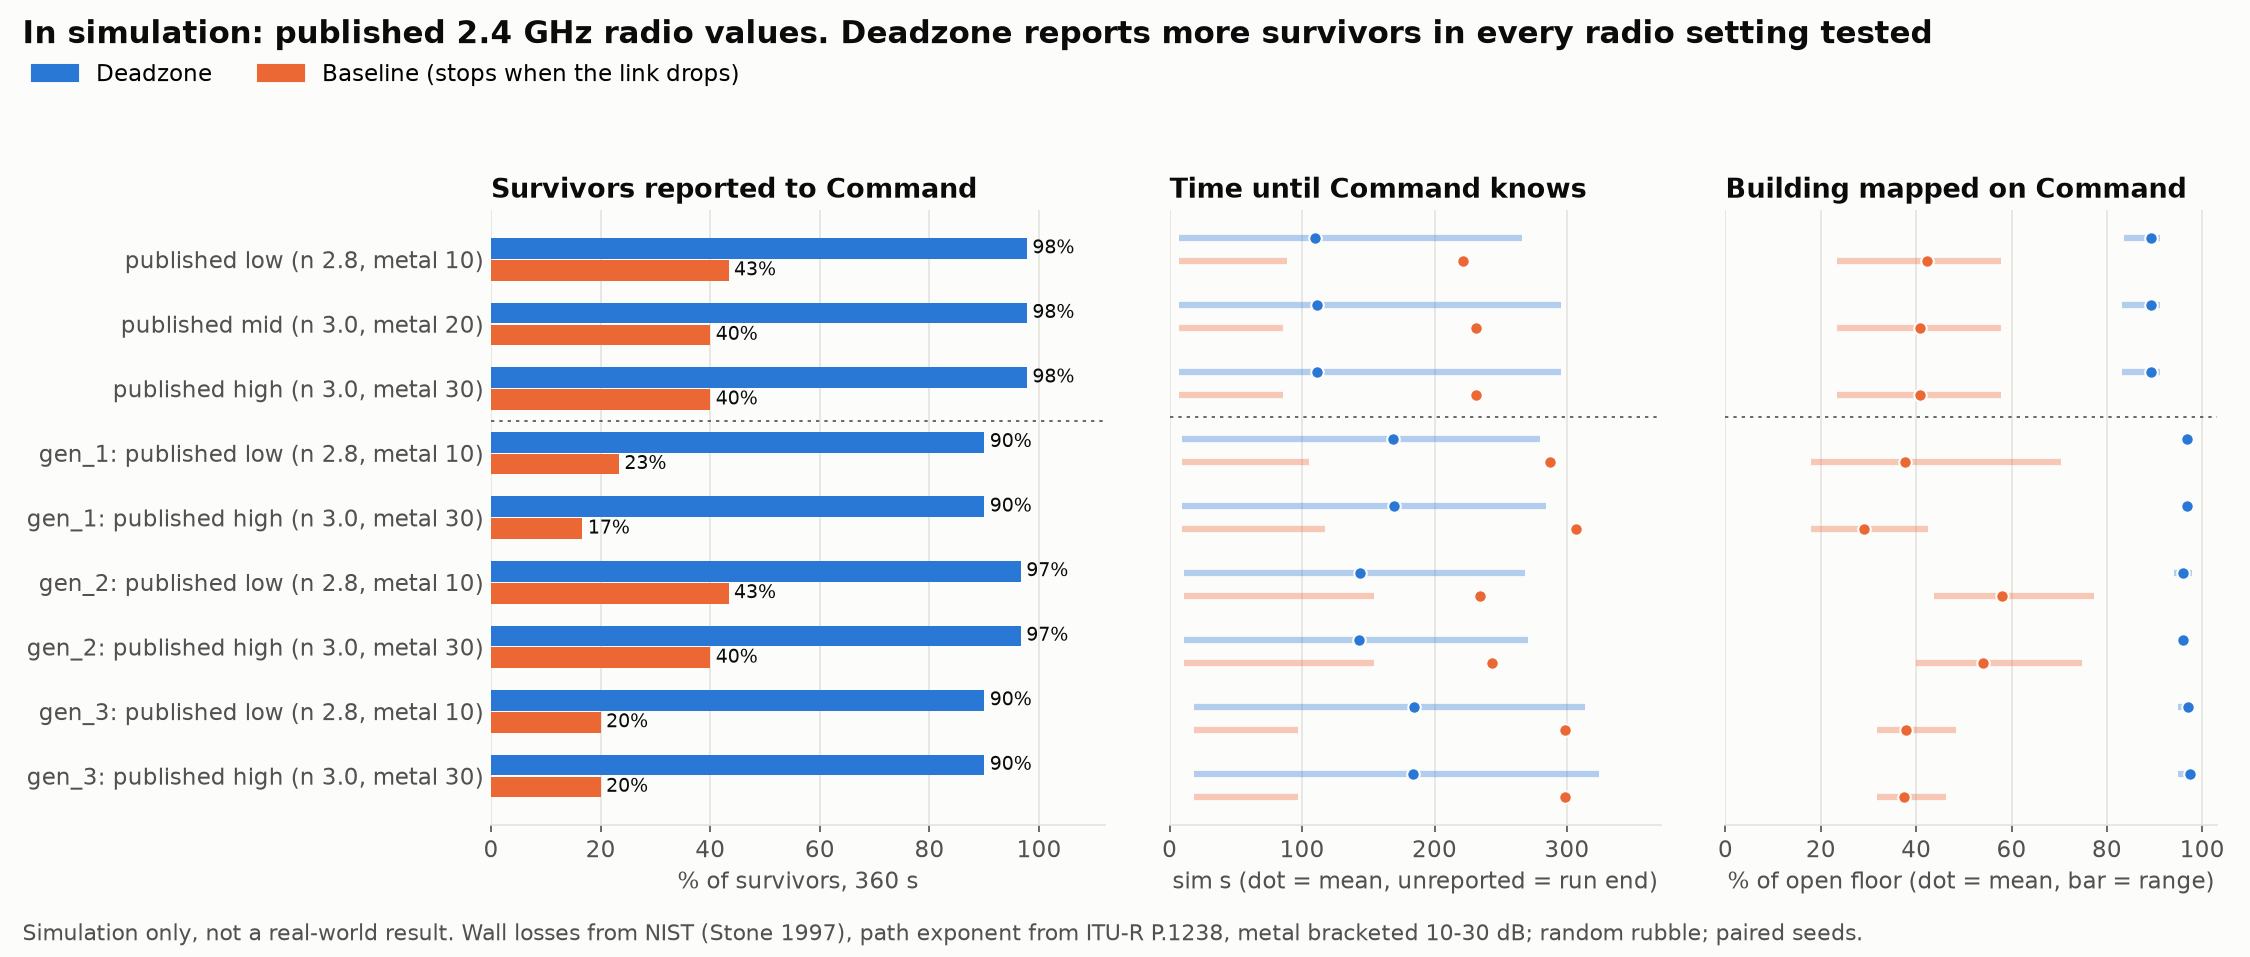
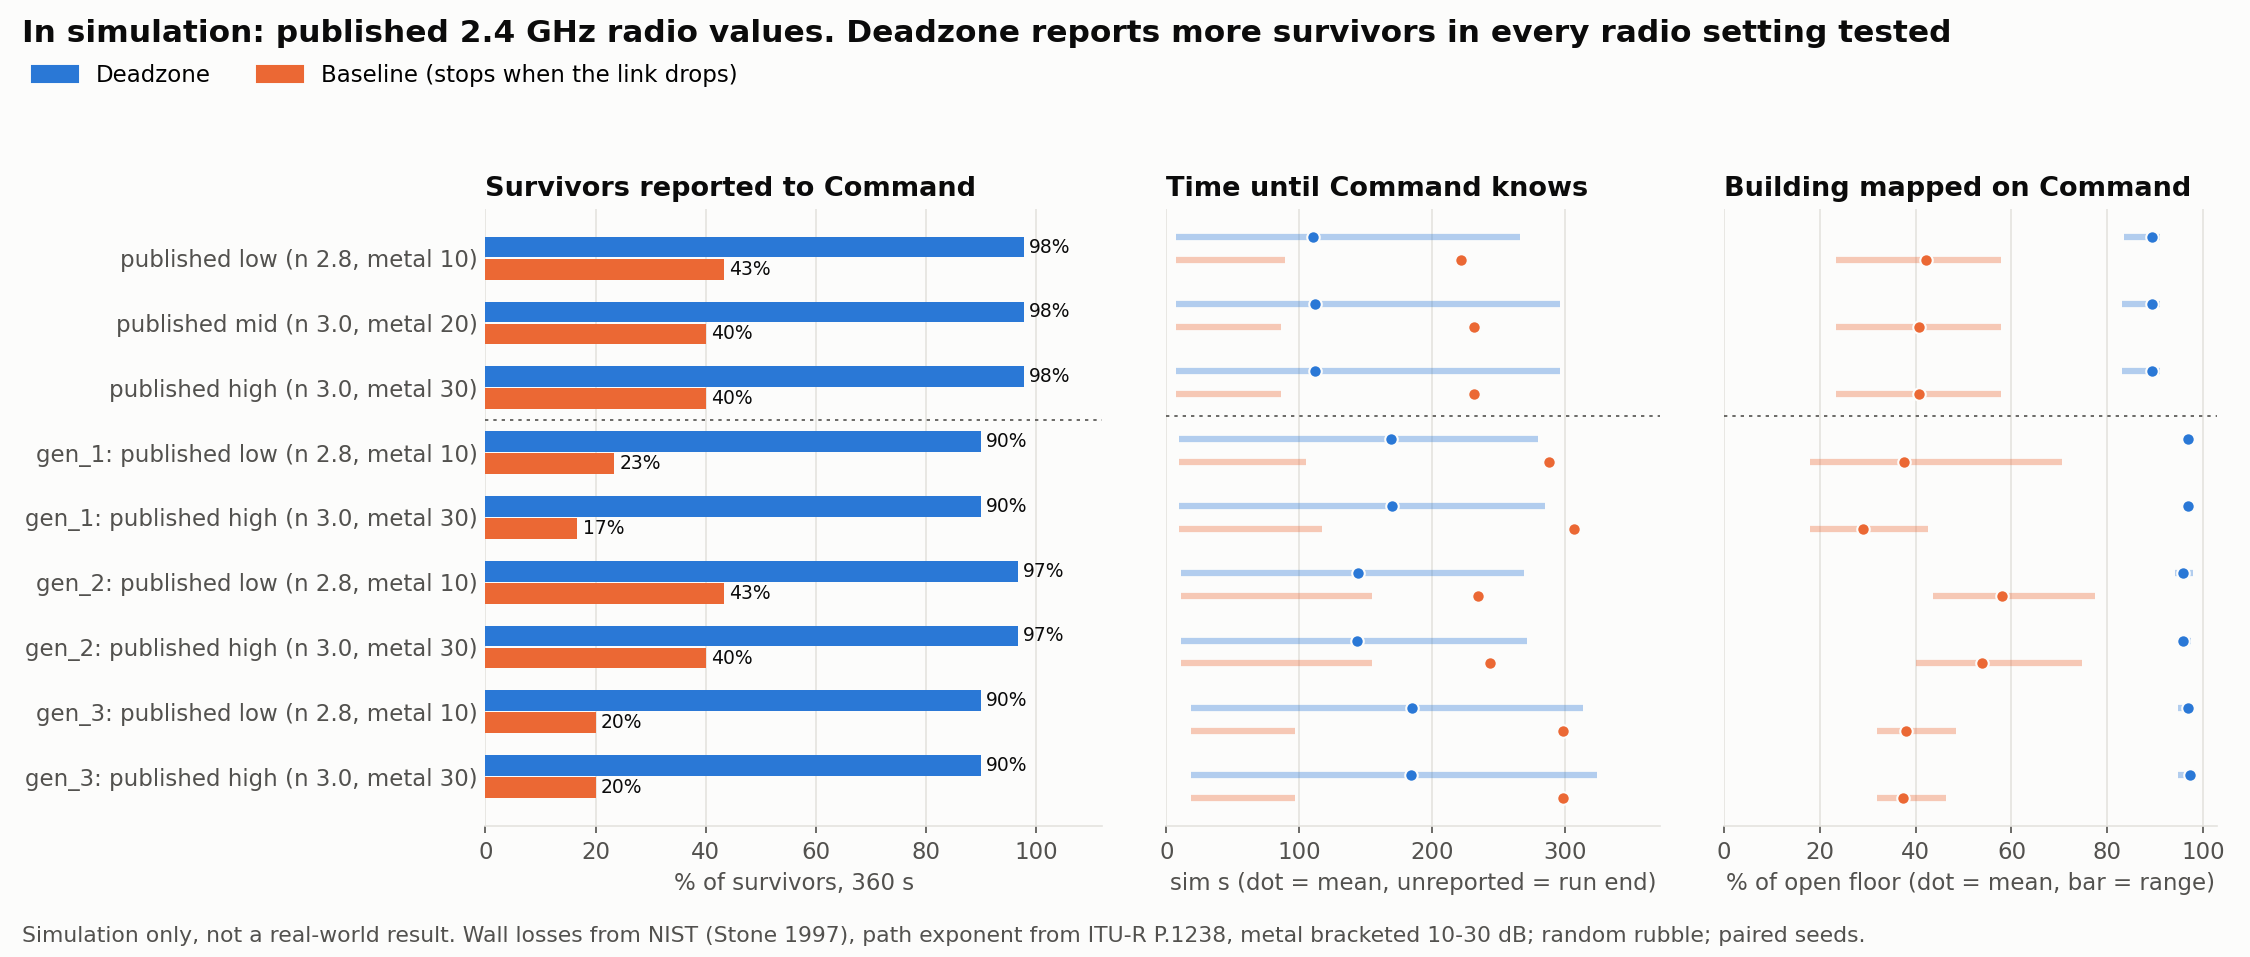
Slide assets regenerated from current results (training curve, calibration, stats card, benchmark v2 and published charts); new gradcam_strip.png of the six demo crops; make_slide_assets.py gains calibration, benchmark and gradcam sections; FACTS lists every image

diff --git a/ml/make_slide_assets.py b/ml/make_slide_assets.py
@@ -12,6 +12,12 @@
 - stats_card.png       : numbers from ml/results/metrics.json                            [stats]
 - training_curve.png   : loss and accuracy per epoch from ml/results/train_history.json
                          (written by ml/train.py --history); skipped while the curve is empty [curve]
+- calibration.png      : reliability diagram replotted from ml/results/calibration.json
+                         (ml/calibration.py scores the sets)                                  [calibration]
+- benchmark_v2.png, benchmark_published.png : replotted from their saved JSON
+                         (ml/benchmark_v2.py --replot, ml/benchmark_published.py --replot)     [benchmark]
+- gradcam_strip.png    : the six demo crops (S1-S3, D1-D3) with their Grad-CAM, verdict and score
+                         from ml/crops/runtime/manifest.json (ml/gradcam.py)                   [gradcam]
 """
 import argparse
 import json
@@ -27,7 +33,7 @@ import matplotlib.pyplot as plt  # noqa: E402
 from matplotlib.patches import FancyArrowPatch, FancyBboxPatch  # noqa: E402
 from PIL import Image  # noqa: E402
 
-SECTIONS = ("confusion", "crops", "stats", "curve")
+SECTIONS = ("confusion", "crops", "stats", "curve", "calibration", "benchmark", "gradcam")
 parser = argparse.ArgumentParser(description=__doc__, formatter_class=argparse.RawDescriptionHelpFormatter)
 parser.add_argument("repo", nargs="?", help="repo root (default: this file's parent's parent)")
 parser.add_argument("--only", nargs="+", choices=SECTIONS, default=list(SECTIONS), metavar="SECTION",
@@ -292,7 +298,66 @@ def training_curve():
     plt.close(fig)
 
 
-BUILD = {"confusion": confusion, "crops": crops_and_pipeline, "stats": stats_card, "curve": training_curve}
+# ---------------------------------------------------------------- calibration (replot from JSON)
+def calibration():
+    import calibration as cal
+    path = ML / "results" / "calibration.json"
+    if not path.exists():
+        print("calibration.png skipped: run py ml/calibration.py first")
+        return
+    cal.chart(json.loads(path.read_text(encoding="utf-8")), OUT / "calibration.png")
+
+
+# ---------------------------------------------------------------- benchmark charts (replot from JSON)
+def benchmarks():
+    import subprocess
+    for script, data in (("benchmark_v2.py", "benchmark_v2.json"), ("benchmark_published.py", "benchmark_published.json")):
+        if not (OUT / data).exists():
+            print(f"{data} missing: run py ml/{script} first")
+            continue
+        subprocess.run([sys.executable, str(ML / script), "--replot", "--out", str(OUT)], check=True)
+
+
+# ---------------------------------------------------------------- Grad-CAM strip of the six demo crops
+def gradcam_strip():
+    """Top row: the real thermal crop the robot judges; bottom row: the same crop with the model's
+    Grad-CAM (where it looked). One column per demo survivor and decoy, verdict and score as the
+    model gives them."""
+    runtime = ML / "crops" / "runtime"
+    m = json.loads((runtime / "manifest.json").read_text(encoding="utf-8"))
+    crops = [c for c in m["crops"] if c.get("id")]
+    crops.sort(key=lambda c: (c["id"][0] != "S", c["id"]))
+    fig, axes = plt.subplots(2, len(crops), figsize=(2.2 * len(crops), 5.4), facecolor=BG)
+    for col, c in enumerate(crops):
+        person = c["label"] == "person"
+        top, bottom = axes[0][col], axes[1][col]
+        top.imshow(Image.open(runtime / c["file"]).convert("L"), cmap="inferno")
+        bottom.imshow(Image.open(runtime / c["heatmap"]).convert("RGB"))
+        verdict = "person" if c["predicted"] == "person" else "not a person"
+        top.set_title(f"{c['id']}  {verdict}  {c['conf'] * 100:.1f}%" if not person else f"{c['id']}  {verdict}  {c['conf'] * 100:.0f}%",
+                      color=GREEN if c["predicted"] == "person" else RED, fontsize=10.5, fontweight="bold")
+        shows = c.get("shows") or c.get("object") or ""
+        if shows:
+            import textwrap
+            bottom.set_xlabel("
+".join(textwrap.wrap(str(shows), 26)[:2]), color=MUTED, fontsize=8.5)
+    for ax in axes.flat:
+        ax.set_xticks([])
+        ax.set_yticks([])
+        for sp in ax.spines.values():
+            sp.set_color(GRID)
+    fig.text(0.012, 0.72, "thermal crop", color=FG, rotation=90, fontsize=11, va="center")
+    fig.text(0.012, 0.30, "where the AI looked", color=FG, rotation=90, fontsize=11, va="center")
+    fig.suptitle("The six demo hot spots as the onboard model sees them", color=FG, fontsize=13, x=0.02, ha="left")
+    fig.text(0.02, 0.012, "Real thermal camera images, Teledyne FLIR dataset (held out)  ·  Grad-CAM on the person class  ·  "
+             f"threshold {m.get('threshold', 0.6)}", color=MUTED, fontsize=9, ha="left")
+    fig.subplots_adjust(left=0.05, right=0.99, top=0.88, bottom=0.13, wspace=0.08, hspace=0.22)
+    fig.savefig(OUT / "gradcam_strip.png", dpi=150, facecolor=BG)
+    plt.close(fig)
+
+
+BUILD = {"confusion": confusion, "crops": crops_and_pipeline, "stats": stats_card, "curve": training_curve,
+         "calibration": calibration, "benchmark": benchmarks, "gradcam": gradcam_strip}
 for name in SECTIONS:
     if name in args.only:
         BUILD[name]()

diff --git a/docs/team/history/rayan.md b/docs/team/history/rayan.md
@@ -3,13 +3,19 @@
 Owns `server/deadzone/robot/`, `ml/`, `data/floorplans/`. Only Rayan's sessions edit this file.
 
 ## Now
-- **Working on:** Rayan's bug-and-polish batch, one PR each: (1) robots never drive through each other (contract posted 13:10; **measured and parked on `rayan/peer-avoid`, Rayan decides**, 13:45 entry), (2) shutdown on DONE (13:45 entry, done), (4) camera hits in telemetry (14:10 entry, done), the no-go freeze fix from rayan-ml's diagnosis (14:30 entry, done), (3) physical shelves via a floor plan `obstacles` list (with Yusuf's footprints and Aziz's rasterization), (4) camera hits inside telemetry for the phone (contract posted); the **belief map Phase 1** (display only; contract 15:00, code 15:40, done; Aziz wires `maps.belief` / `maps.belief_command` / `maps.missing`, Yusuf draws) and **Phase 2** (`DZ_SEARCH_BAYES=1`, 16:20 entry, done, off by default: with the building prior the last survivor is found at 157 s instead of 246 s on seed 7, the dark moment moves 28 s). **Item 3:** furniture radio loss fixed (17:40 entry, 1 dB per piece, cross-area edit authorized by Rayan); with obstacles on the story holds except the reroute beat (table in 17:40), `DZ_OBSTACLES` stays off until Rayan decides. **PR B done (18:10 entry).** Now Rayan's three docs PRs: FACTS.md (18:40, done), README sections (19:00, done), slide assets (next). Item 1 parked by Rayan. Earlier: **queue done.** Items 7 and 8 (11:20 entry: `showcase_01`, default plans, key-N variants v1..v5, no collapse_01 dependency), the counters (11:50 entry: `Robot.counters`, Aziz sums them into `tick.stats`) and "unsure, moving closer" (12:20 entry) are on main. Done earlier from the PLAN.md midnight list: detector and scheduler counters for Aziz's `tick.stats` (key I), validated key-N variants of collapse_01 in `data/floorplans/variants/`, and "unsure, moving closer"; then hold. **Moved to the testing laptop (`rayan-ml.md`):** the judge pool and the benchmark refinement. Done earlier this round: A1 fix (V2 path shortcuts use the survivor-aware mask, this entry) + DEMO.md flag lines, training-curve slide asset, post-merge review of Aziz's #77 / #82 (verdict: default path and `DZ_SENSOR_VIEW` safe; `DZ_EXPLORATION_V2` must stay off for the demo), Yusuf's asset pack (`assets-pack/`, outside web/). **Later, only when Rayan asks:** visibility-checked `fit_route` thinning for routes over 60 points (Aziz's handoff patch, generated buildings only). **Later, low priority (Rayan said not now):** speed up my robot planner (vectorize the frontier search) so the sim reaches 10x during exploration.
+- **Working on:** Rayan's bug-and-polish batch, one PR each: (1) robots never drive through each other (contract posted 13:10; **measured and parked on `rayan/peer-avoid`, Rayan decides**, 13:45 entry), (2) shutdown on DONE (13:45 entry, done), (4) camera hits in telemetry (14:10 entry, done), the no-go freeze fix from rayan-ml's diagnosis (14:30 entry, done), (3) physical shelves via a floor plan `obstacles` list (with Yusuf's footprints and Aziz's rasterization), (4) camera hits inside telemetry for the phone (contract posted); the **belief map Phase 1** (display only; contract 15:00, code 15:40, done; Aziz wires `maps.belief` / `maps.belief_command` / `maps.missing`, Yusuf draws) and **Phase 2** (`DZ_SEARCH_BAYES=1`, 16:20 entry, done, off by default: with the building prior the last survivor is found at 157 s instead of 246 s on seed 7, the dark moment moves 28 s). **Item 3:** furniture radio loss fixed (17:40 entry, 1 dB per piece, cross-area edit authorized by Rayan); with obstacles on the story holds except the reroute beat (table in 17:40), `DZ_OBSTACLES` stays off until Rayan decides. **PR B done (18:10 entry).** Rayan's three docs PRs are done: FACTS.md (18:40), README sections (19:00), slide assets (19:20). **Holding.** Item 1 parked by Rayan. Earlier: **queue done.** Items 7 and 8 (11:20 entry: `showcase_01`, default plans, key-N variants v1..v5, no collapse_01 dependency), the counters (11:50 entry: `Robot.counters`, Aziz sums them into `tick.stats`) and "unsure, moving closer" (12:20 entry) are on main. Done earlier from the PLAN.md midnight list: detector and scheduler counters for Aziz's `tick.stats` (key I), validated key-N variants of collapse_01 in `data/floorplans/variants/`, and "unsure, moving closer"; then hold. **Moved to the testing laptop (`rayan-ml.md`):** the judge pool and the benchmark refinement. Done earlier this round: A1 fix (V2 path shortcuts use the survivor-aware mask, this entry) + DEMO.md flag lines, training-curve slide asset, post-merge review of Aziz's #77 / #82 (verdict: default path and `DZ_SENSOR_VIEW` safe; `DZ_EXPLORATION_V2` must stay off for the demo), Yusuf's asset pack (`assets-pack/`, outside web/). **Later, only when Rayan asks:** visibility-checked `fit_route` thinning for routes over 60 points (Aziz's handoff patch, generated buildings only). **Later, low priority (Rayan said not now):** speed up my robot planner (vectorize the frontier search) so the sim reaches 10x during exploration.
 - **Works on main:** frontier exploration, 3-robot target sharing, relay auto-drop, A* return home, lost-link + 10 s reconnect hold, REPLANNING around rubble, rate monotonic scheduler with carry-over and deadline misses, full fault FSM (OVERCURRENT, STUCK, SAFE_STOP, LOW_BATTERY, TRAPPED), SAFE_STOP resume command (PR #13), robots follow dispatched plans (PR #15), robots perceive through the trained detector with decoys in the floor plan (PR #14 + #17). Seed 7, 3 robots: S1 found dark at 182.3 s, on Command at 187.3 s, 4 relays.
 - **In flight (not merged):** none. On main: asset pack (`assets-pack/`, this entry), DEMO.md dry-run fixes + short-briefing asks (PR #79), logged retrain promoted on a tie (PR #71), review v2 + DEMO.md fixes (PR #75), DEMO.md update (PR #74), scenario generator (PR #73), AI Lab export (PR #68), team-sync rule in INSTRUCTIONS.md (PR #67), voice commands + command_ack (PR #64, contract PR #63), rescue route recompute after aftershocks (PR #62), PLAN.md voice control + https tunnel + one controller per robot (PR #61), PLAN.md realistic visuals + AI showcase (PR #57), soak test + PR #28 review (PR #53), benchmark labeled "in simulation" (PR #48), Grad-CAM heatmaps + crop manifest (PR #49), baseline mode + benchmark (PR #41), no attribution setting (PR #43), demo guard (PR #36), Version 2 plan (PR #34), pitch assets (PR #33), demo polish (PR #29), beacon_for tag (PR #32), rescue route + beacon (PR #25), `docs/DEMO.md`, detector hookup + decoys (PR #17).
 - **Blocked on / need from others:** **Aziz:** one piece left for the showcase and the variants (11:20 entry): quiet preload of a building's `default_plan` file on reset-into-floorplan (manual `POST /api/plan` with `data/plans/<...>.plan.json` works meanwhile). The reset control, `/api/scenarios` and the timeline player from your #90 cover the rest. **Counters:** `robot.counters` has your names; your test expects robots to supply none via telemetry by default, so pick: read the attribute in `Sim.snapshot()`, or I add the telemetry field alongside your test change (11:50 entry). **The judge pool export you asked for is with the testing laptop (`rayan-ml.md`), not this session.** **Aziz: A1 is done on main (10:20 entry). A2 (an `explore_zone` under V2 never sends `completed` when no viewpoint is reachable) is your call, suggestions in the 10:00 entry; keep `DZ_EXPLORATION_V2` off for the demo.** **Yusuf: the asset pack is in `assets-pack/`** (asset-pack entry); say in your file if you want other sets, plain JPG/PNG, or a different person pose, and I'll regenerate. Still open for Yusuf: speak only the short G briefing (PR #79 entry). **Aziz:** the ~3-sentence G briefing or a `short` field (PR #79 entry); A2, leases block B / U from the big screen (keep `DZ_VOICE` / `DZ_CONTROL_LEASES` off for the main run until fixed); the generated-building loader + timeline player (scenario-gen entry) only if you want it for Q&A; quiet P-1 preload (demo-polish entry) if not done. **Rayan (testing laptop):** keyed ElevenLabs dry run (the keyed G dry run passed with `source: "gemini"`). Done by Yusuf: route replacement (Y3), B chip + state labels, `curve_note` (PR #80). Done by Aziz: `/crops`, `hello.detector`, `command.routes` (PR #28), baseline control (PR #54), `/api/voice` + `command_ack` wiring (PR #72). Details in the Blocked sections below; owners/targets in `docs/PLAN.md` Added scope. Keep `PEER_FRESH_S` in robot.py (sim.py imports it).
 - **Promises to others:** states final: DEPLOYING, EXPLORING, LOST_LINK_EXPLORING, RETURNING_TO_SIGNAL, RETURNING_HOME, REPLANNING, FAULT, DONE, plus WAITING_FOR_LINK (baseline mode only). Robot `mode`: deadzone (default) or baseline, `Robot.set_mode()`. Faults final: null, OVERCURRENT, STUCK, LOW_BATTERY, TRAPPED, SAFE_STOP. `tasks` slices as in PR #7, `missed` can now be true. Robot hooks: `inject_overcurrent(seconds=1.0)`, `inject_perception_overload(seconds=3.0, wcet_ms=400)`.
 
 ## Log
+
+### 2026-11-08 19:20 · rayan/slide-assets · Slide assets regenerated from current results; Grad-CAM strip of the six demo crops
+- **Did:** `ml/make_slide_assets.py` gains three sections: `calibration` (replots `ml/results/calibration.json` through `ml/calibration.py`'s chart, no re-scoring), `benchmark` (runs `benchmark_v2.py --replot` and `benchmark_published.py --replot`), and `gradcam` (**new `docs/assets/gradcam_strip.png`**: S1–S3 and D1–D3, thermal crop above, Grad-CAM below, verdict and score from `ml/crops/runtime/manifest.json`). Regenerated from current results: `training_curve.png` (the fine-tuned run: 5 epochs, 13,266 crops), `calibration.png`, `stats_card.png` (96.7 / 97.3 / 96.0), `benchmark_v2.png`, `benchmark_published.png`; `confusion_matrix.png` unchanged. `crops_grid.png` / `pipeline.png` need the SDT frames (testing laptop) and were left as they are. FACTS.md lists every image with its section and source data.
+- **Contract changes:** none.
+- **Heads-up for others:** **rayan-ml:** `py ml/make_slide_assets.py --only crops` on your side if the examples grid should match the new runtime crops. **Yusuf:** `gradcam_strip.png` is also served at `/ai-lab/slides/gradcam_strip.png` with `DZ_AI_LAB=1` if you want it in L.
+- **Next:** hold.
 
 ### 2026-11-08 19:00 · rayan/readme-sections · README: "AI tools" and "Resources and licenses"
 - **Did:** README gains **AI tools** (Claude Code and OpenAI Codex used for code, disclosed per MLH rules; design and decisions ours; the detector is our own model; Gemini only briefs) and **Resources and licenses** (FLIR ADAS v2 under Teledyne's terms, SDT CC BY 4.0, Rappaport, NIST Stone 1997, ITU-R P.1238, Liu & Layland, the CC0 asset pack, and every pip and npm dependency with its license in one line each), in the README's own voice; the old "Data and resources" section is folded in. FACTS.md: the model row now says 4.8 ms per crop (from `lab.json`), not "about 7".

diff --git a/docs/FACTS.md b/docs/FACTS.md
@@ -60,4 +60,16 @@ Every number we say on stage, with the file in this repo it comes from. If it ca
 
 ## Slide assets
 
-`docs/assets/`: `training_curve.png`, `calibration.png`, `confusion_matrix.png`, `crops_grid.png`, `pipeline.png`, `stats_card.png`, `benchmark.png`, `benchmark_v2.png`, `benchmark_published.png`. Rebuild with `py ml/make_slide_assets.py` (see its docstring for which script owns which image).
+All in `docs/assets/`, rebuilt with `py ml/make_slide_assets.py` (`--only <section>` to pick):
+
+| Image | Shows | Section / source data |
+|---|---|---|
+| `training_curve.png` | loss and accuracy per epoch, training vs held-out | `curve`, `ml/results/train_history.json` |
+| `calibration.png` | reliability diagram, street and indoor | `calibration`, replot of `ml/results/calibration.json` (`py ml/calibration.py` scores) |
+| `confusion_matrix.png` | 1,200 held-out FLIR crops at threshold 0.6 | `confusion`, copied from `ml/results/` (`py ml/eval.py`) |
+| `benchmark_v2.png` | Deadzone vs baseline across the radio sweep | `benchmark`, `py ml/benchmark_v2.py --replot` |
+| `benchmark_published.png` | the same at NIST / ITU-R values | `benchmark`, `py ml/benchmark_published.py --replot` |
+| `gradcam_strip.png` | the six demo hot spots: crop, Grad-CAM, verdict and score | `gradcam`, `ml/crops/runtime/manifest.json` (`py ml/gradcam.py`) |
+| `stats_card.png` | accuracy / precision / recall card | `stats`, `ml/results/metrics.json` |
+| `crops_grid.png`, `pipeline.png` | held-out examples and the pipeline diagram | `crops`; needs the FLIR val split and the SDT frames, so it is rebuilt on the testing laptop |
+| `benchmark.png` | the first (v1) benchmark | `py ml/benchmark.py`, kept for the record; say v2 numbers |
